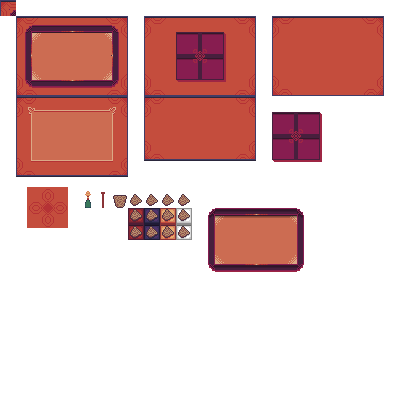
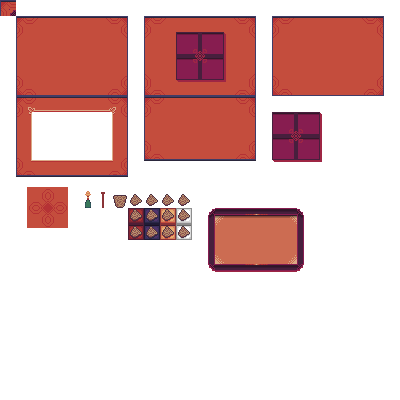
Feat - Adicionando lista de vinhos com scroll rolável

Changed region(s): [[0.03, 0.06, 0.33, 0.24], [0.06, 0.27, 0.3, 0.42]]

diff --git a/src/engine.py b/src/engine.py
@@ -1,13 +1,13 @@
 import sys
 import pygame
 
-from pygame import display, fastevent, time
+from pygame import display, fastevent, time, Surface
 from pygame.sprite import Group, groupcollide
 
-from ents.janela import JanelaDetalhe, Mouse, JanelaVinhos
+from ents.janela import JanelaDetalhe, Mouse, JanelaVinhos, ListaVinhos, Vinho
 from ents.presente import PresenteFechado
 
-from groups import tela_group, presente_group, mouse_group
+from groups import tela_group, presente_group, mouse_group, vinhos_lista, tela_detalhes_group
 
 sys.path.insert(0, '/')
 
@@ -16,23 +16,39 @@ class WindowMain:
         display.init()
         fastevent.init()
 
+        self.lista_vinhos = ['Tinto','Rosé','Espumante','Branco','','Tinto','Rosé','Espumante','Branco','','Tinto','Rosé','Espumante','Branco','','Tinto','Rosé','Espumante','Branco','','Tinto','Rosé','Espumante','Branco','']
         self.WINDOWLOOP = True
 
         self.tela = display.set_mode([16*7*4, 16*5*4])
         display.set_caption("Wine Examine")
 
         self.FPS_TICK = time.Clock()
+        self.COLETAR_DADOS = pygame.USEREVENT + 1
+        pygame.time.set_timer(self.COLETAR_DADOS, 5000)
 
     def inicializar_grupos(self):
+        self.detalhes = Surface((16*4, 16*6*4))
         Mouse(mouse_group)
-        JanelaDetalhe(tela_group)
-        JanelaVinhos(tela_group)
+        JanelaDetalhe(tela_detalhes_group)
+        ListaVinhos(tela_group)
+        JanelaVinhos(tela_detalhes_group)
         PresenteFechado(presente_group)
+
+    def adicionar_vinhos(self):
+        for vinho in self.lista_vinhos:
+            Vinho(vinhos_lista)
 
     def eventos_tela(self):
         for evento in fastevent.get():
             if evento.type == pygame.QUIT:
                 self.WINDOWLOOP = False
+
+            if evento.type == self.COLETAR_DADOS:
+                self.adicionar_vinhos()
+
+            for colission in groupcollide(vinhos_lista, mouse_group, False, False):
+                if evento.type == pygame.MOUSEWHEEL:
+                    vinhos_lista.update(evento.y)
 
             for colision in groupcollide(presente_group, mouse_group, False, False):
                 if evento.type == pygame.MOUSEBUTTONUP and evento.button == 1:
@@ -46,7 +62,11 @@ class WindowMain:
 
     def desenhar_tela(self):
         tela_group.draw(self.tela)
+        vinhos_lista.draw(self.tela)
+        tela_detalhes_group.draw(self.tela)
         presente_group.draw(self.tela)
+
+
 
     def window_loop(self):
         self.inicializar_grupos()

diff --git a/src/ents/janela.py b/src/ents/janela.py
@@ -2,6 +2,7 @@ from pygame.sprite import Sprite
 from pygame import Rect, mouse, Surface
 from pygame.transform import scale
 from tools.sprite_sheet import SpriteSheet
+import sqlite3
 
 SPRITESHEET = SpriteSheet('res/wine.png')
 
@@ -33,6 +34,38 @@ class JanelaVinhos(Sprite):
         self.image = SPRITESHEET.corta_sprite(16, 96, 16*7, 16*5)
         self.image = scale(self.image, [16*7*4, 16*5*4])
         self.rect = Rect(0,16*5*4,16*7*4, 16*5*4)
+
+    def update(self):
+        ...
+
+class Vinho(Sprite):
+    locate_x = 16*4
+    locate_y = 16*6*4
+
+    @classmethod
+    def ajustar_locates(cls):
+        cls.locate_x += 16*4
+        if cls.locate_x >= 16*4*6:
+            cls.locate_x = (cls.locate_x/6)
+            cls.locate_y += 16*4
+
+    def __init__(self, *groups):
+        super().__init__(*groups)
+        global SPRITESHEET
+        self.image = SPRITESHEET.corta_sprite(128, 208,16,16)
+        self.image = scale(self.image, (16*4, 16*4))
+        self.rect = Rect(self.locate_x, self.locate_y, 16*4, 16*4)
+        self.ajustar_locates()
+
+    def update(self, evento):
+        self.rect.y += evento*8
+
+class ListaVinhos(Sprite):
+    def __init__(self, *groups):
+        super().__init__(*groups)
+        self.image = Surface((16*5*4,16*3*4))
+        self.image.fill((204,108,82))
+        self.rect = Rect(16*4, 16*6*4, 16*5*4, 16*3*4)
 
     def update(self):
         ...

diff --git a/src/groups.py b/src/groups.py
@@ -1,5 +1,8 @@
 from pygame.sprite import Group
+from pygame import Surface
 
 tela_group = Group()
 presente_group = Group()
 mouse_group = Group()
+vinhos_lista = Group()
+tela_detalhes_group = Group()
